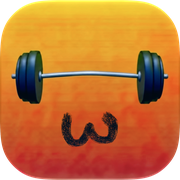
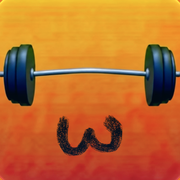
Add social preview image, rename site title to "Gymoji"
LINE showed the small icon letterboxed with white edges. Add a 1200x630
Open Graph image on a solid dark ground plus og/twitter tags, make the
apple-touch-icon full-bleed, and rename the home title to "Gymoji".

Claude-Session: https://claude.ai/code/session_01RQdAWSFwdThpzUk8L2aECJ

diff --git a/index.html b/index.html
@@ -3,8 +3,17 @@
 <head>
 <meta charset="utf-8">
 <meta name="viewport" content="width=device-width, initial-scale=1, viewport-fit=cover">
-<title>Gymoji Support</title>
+<title>Gymoji</title>
 <meta name="description" content="Gymoji 是一款 iOS 重量訓練紀錄 App。訓練資料完整保存、由你掌控，並可備份、匯出與匯入。">
+<meta property="og:type" content="website">
+<meta property="og:site_name" content="Gymoji">
+<meta property="og:title" content="Gymoji">
+<meta property="og:description" content="Gymoji 是一款 iOS 重量訓練紀錄 App。訓練資料完整保存、由你掌控，並可備份、匯出與匯入。">
+<meta property="og:url" content="https://hegwanlin.github.io/gymoji/">
+<meta property="og:image" content="https://hegwanlin.github.io/gymoji/assets/og-image.png">
+<meta property="og:image:width" content="1200">
+<meta property="og:image:height" content="630">
+<meta name="twitter:card" content="summary_large_image">
 <meta name="theme-color" content="#0D0E13">
 <link rel="icon" type="image/png" href="assets/favicon.png">
 <link rel="apple-touch-icon" href="assets/apple-touch-icon.png">
@@ -17,7 +26,7 @@
 
 <header class="site-header">
   <div class="inner">
-    <a class="brand" href="./" aria-label="Gymoji Support 首頁">
+    <a class="brand" href="./" aria-label="Gymoji 首頁">
       <img src="assets/logo.webp" alt="" width="32" height="32">
       Gymoji
     </a>

diff --git a/privacy/index.html b/privacy/index.html
@@ -5,6 +5,15 @@
 <meta name="viewport" content="width=device-width, initial-scale=1, viewport-fit=cover">
 <title>隱私權政策 – Gymoji</title>
 <meta name="description" content="Gymoji 的隱私權政策，說明本 App 如何處理你的資料。">
+<meta property="og:type" content="website">
+<meta property="og:site_name" content="Gymoji">
+<meta property="og:title" content="隱私權政策 – Gymoji">
+<meta property="og:description" content="Gymoji 的隱私權政策，說明本 App 如何處理你的資料。">
+<meta property="og:url" content="https://hegwanlin.github.io/gymoji/privacy/">
+<meta property="og:image" content="https://hegwanlin.github.io/gymoji/assets/og-image.png">
+<meta property="og:image:width" content="1200">
+<meta property="og:image:height" content="630">
+<meta name="twitter:card" content="summary_large_image">
 <meta name="theme-color" content="#0D0E13">
 <link rel="icon" type="image/png" href="../assets/favicon.png">
 <link rel="apple-touch-icon" href="../assets/apple-touch-icon.png">
@@ -17,7 +26,7 @@
 
 <header class="site-header">
   <div class="inner">
-    <a class="brand" href="../" aria-label="Gymoji Support 首頁">
+    <a class="brand" href="../" aria-label="Gymoji 首頁">
       <img src="../assets/logo.webp" alt="" width="32" height="32">
       Gymoji
     </a>

diff --git a/privacy-en/index.html b/privacy-en/index.html
@@ -5,6 +5,15 @@
 <meta name="viewport" content="width=device-width, initial-scale=1, viewport-fit=cover">
 <title>Privacy Policy – Gymoji</title>
 <meta name="description" content="Gymoji privacy policy: how the App handles your data.">
+<meta property="og:type" content="website">
+<meta property="og:site_name" content="Gymoji">
+<meta property="og:title" content="Privacy Policy – Gymoji">
+<meta property="og:description" content="Gymoji privacy policy: how the App handles your data.">
+<meta property="og:url" content="https://hegwanlin.github.io/gymoji/privacy-en/">
+<meta property="og:image" content="https://hegwanlin.github.io/gymoji/assets/og-image.png">
+<meta property="og:image:width" content="1200">
+<meta property="og:image:height" content="630">
+<meta name="twitter:card" content="summary_large_image">
 <meta name="theme-color" content="#0D0E13">
 <link rel="icon" type="image/png" href="../assets/favicon.png">
 <link rel="apple-touch-icon" href="../assets/apple-touch-icon.png">
@@ -17,7 +26,7 @@
 
 <header class="site-header">
   <div class="inner">
-    <a class="brand" href="../" aria-label="Gymoji Support 首頁">
+    <a class="brand" href="../" aria-label="Gymoji 首頁">
       <img src="../assets/logo.webp" alt="" width="32" height="32">
       Gymoji
     </a>

diff --git a/testflight/index.html b/testflight/index.html
@@ -5,6 +5,15 @@
 <meta name="viewport" content="width=device-width, initial-scale=1, viewport-fit=cover">
 <title>加入 TestFlight – Gymoji</title>
 <meta name="description" content="申請加入 Gymoji 的 TestFlight 測試。">
+<meta property="og:type" content="website">
+<meta property="og:site_name" content="Gymoji">
+<meta property="og:title" content="加入 TestFlight – Gymoji">
+<meta property="og:description" content="申請加入 Gymoji 的 TestFlight 測試。">
+<meta property="og:url" content="https://hegwanlin.github.io/gymoji/testflight/">
+<meta property="og:image" content="https://hegwanlin.github.io/gymoji/assets/og-image.png">
+<meta property="og:image:width" content="1200">
+<meta property="og:image:height" content="630">
+<meta name="twitter:card" content="summary_large_image">
 <meta name="theme-color" content="#0D0E13">
 <link rel="icon" type="image/png" href="../assets/favicon.png">
 <link rel="apple-touch-icon" href="../assets/apple-touch-icon.png">
@@ -17,7 +26,7 @@
 
 <header class="site-header">
   <div class="inner">
-    <a class="brand" href="../" aria-label="Gymoji Support 首頁">
+    <a class="brand" href="../" aria-label="Gymoji 首頁">
       <img src="../assets/logo.webp" alt="" width="32" height="32">
       Gymoji
     </a>
